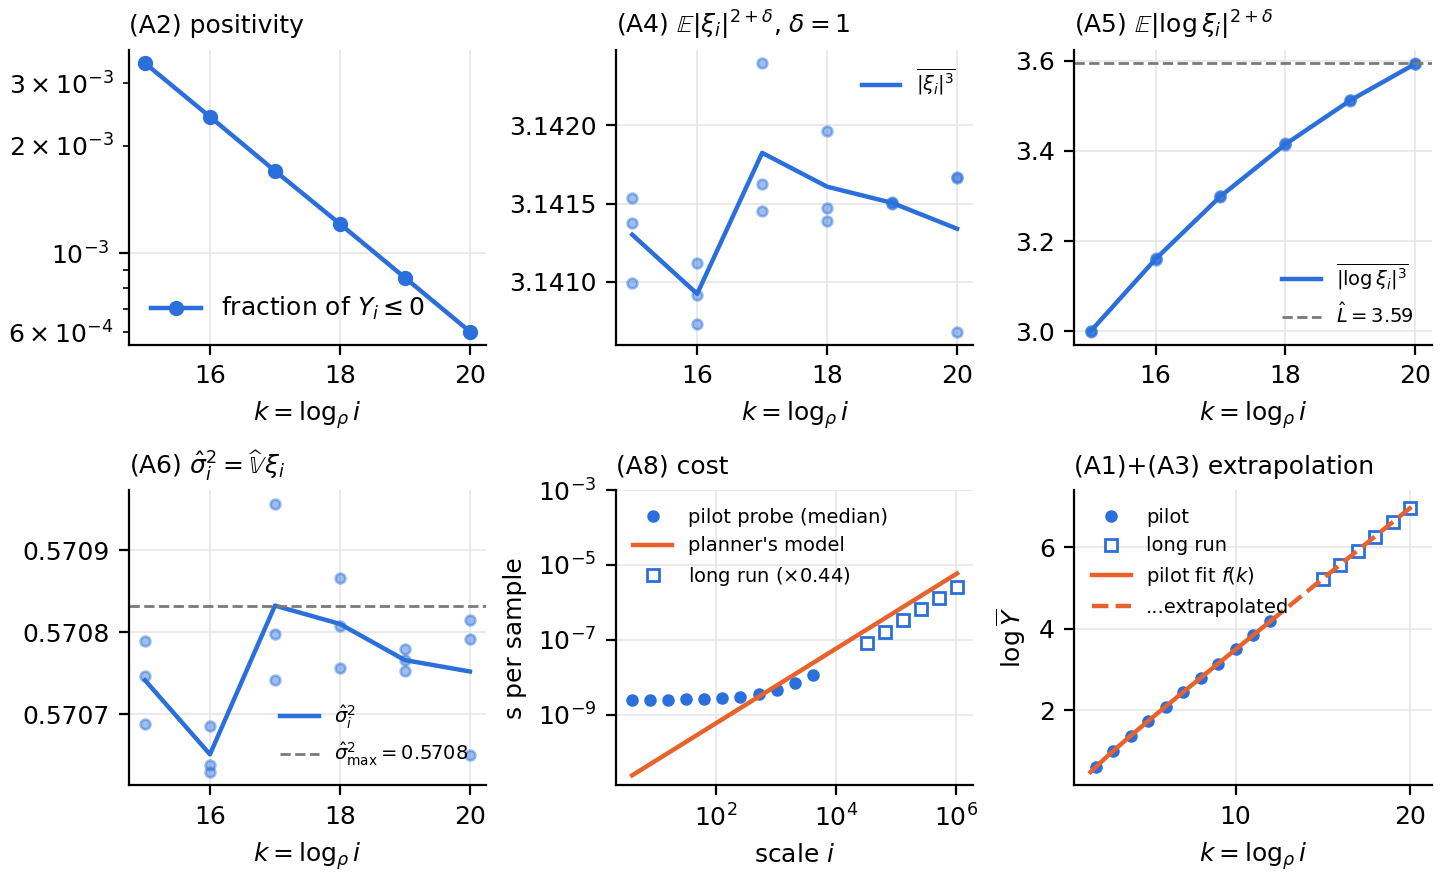
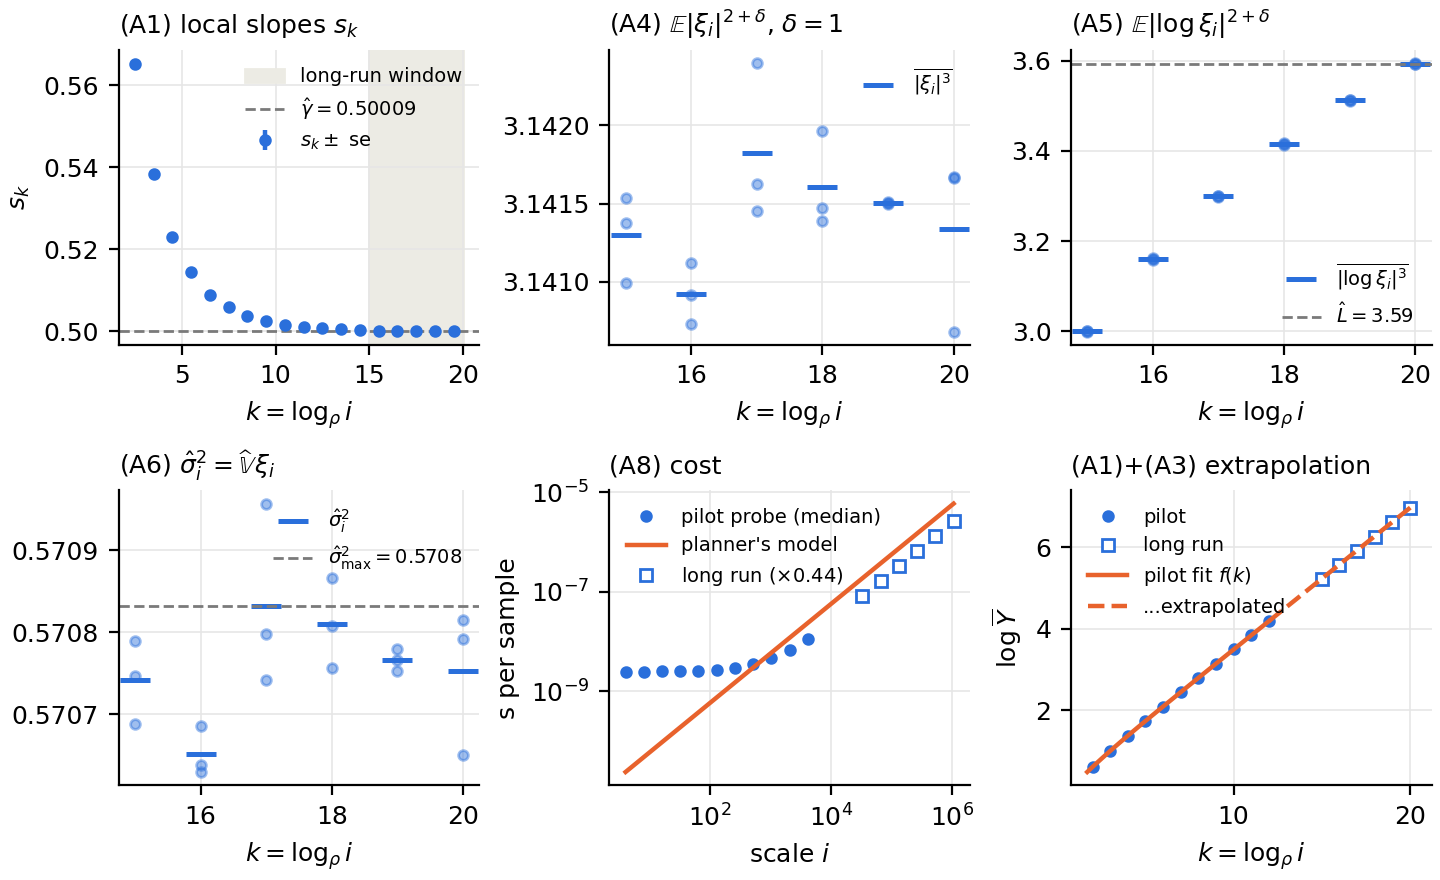
replace experiment 46's (A2) panel with local slopes and stop joining (A4)-(A6)
(A2) needs no plot: a non-positive Ybar makes the log fail. The local
slopes come from local_slope.json. L-hat now uses report.py's definition,
the largest replicate mean over scales, and is asserted equal to it.

diff --git a/experiments/46_pipeline_erwurn_gpu/plot_pipeline.py b/experiments/46_pipeline_erwurn_gpu/plot_pipeline.py
@@ -11,7 +11,10 @@
    `pipeline_extrapolation`: the pilot correction extended over the planned window.
 3. `pipeline_longrun`: the long run's log-log plot with the fitted slope gamma-hat.
 4. `pipeline_checks`: the Step 4 checks on the long-run data, one panel each for
-   (A2), (A4), (A5), (A6), (A8) and (A1)+(A3). (A8) compares the long run's time
+   the local slopes, (A4), (A5), (A6), (A8) and (A1)+(A3). The local slopes come from
+   `src/study/local_slope.py` (local_slope.json), which brings every scale from the
+   pilot's smallest to the window's top to the final's n. (A4)-(A6) are drawn as
+   points, not lines: they are estimates at separate scales. (A8) compares the long run's time
    with the planner's cost model; (A1)+(A3) is the log-log plot of pilot and long
    run together, with the pilot's fit extrapolated across the window.
 
@@ -60,7 +63,7 @@ plt.rcParams.update({"font.size": 9, "axes.grid": True, "grid.color": "#e6e6e6",
 
 def load(sd: Path) -> dict:
     d = {name: json.loads((sd / f"{name}.json").read_text())
-         for name in ("pilot", "plan", "final", "answer")}
+         for name in ("pilot", "plan", "final", "answer", "local_slope")}
     # Only a study planned on a re-fitted cost has one (src/study/refit_cost.py).
     rf = sd / "cost_refit.json"
     d["cost_refit"] = json.loads(rf.read_text()) if rf.exists() else None
@@ -241,31 +244,40 @@ def fig_checks(d: dict, rho: float):
     R, n = len(reps), final["n"]
     fig, axs = plt.subplots(2, 3, figsize=(7.2, 4.4), constrained_layout=True)
 
-    def per_rep(ax, field, label):
-        for r in reps:
-            ax.plot(k, r[field], "o", color=DATA, alpha=0.45, ms=3.5)
-        ax.plot(k, pooled(reps, field), "-", color=DATA, label=label)
+    def per_rep(ax, values, label):
+        """Each replicate a light point, their mean a bar; scales are not joined."""
+        for v in values:
+            ax.plot(k, v, "o", color=DATA, alpha=0.45, ms=3.5)
+        mean = np.mean(values, axis=0)
+        ax.plot(k, mean, "_", color=DATA, ms=11, mew=1.8, label=label)
+        return mean
 
     ax = axs[0, 0]
-    frac = np.sum([r["n_nonpos"] for r in reps], axis=0) / (R * n)
-    ax.semilogy(k, frac, "o-", color=DATA, label=r"fraction of $Y_i \leq 0$")
-    ax.set_title(r"(A2) positivity", fontsize=9, loc="left")
-    ax.legend(loc="lower left")
+    ls = d["local_slope"]["analysis"]
+    # s_k is the slope between rho^k and rho^(k+1), so it sits between them.
+    ks = np.log(ls["scales"][:-1]) / math.log(rho) + 0.5
+    ax.axvspan(k[0], k[-1], color=WINDOW, label="long-run window")
+    ax.errorbar(ks, ls["s"], yerr=ls["se_s"], fmt="o", color=DATA, ms=3.5,
+                label=r"$s_k \pm$ se")
+    ax.axhline(d["answer"]["gamma"], color=REF, ls="--", lw=1,
+               label=rf"$\hat\gamma={d['answer']['gamma']:.5f}$")
+    ax.set_ylabel(r"$s_k$")
+    ax.set_title(r"(A1) local slopes $s_k$", fontsize=9, loc="left")
+    ax.legend(loc="upper right", fontsize=7)
 
-    per_rep(axs[0, 1], "abs_moment", r"$\overline{|\xi_i|^{3}}$")
+    per_rep(axs[0, 1], [r["abs_moment"] for r in reps], r"$\overline{|\xi_i|^{3}}$")
     axs[0, 1].set_title(r"(A4) $\mathbb{E}|\xi_i|^{2+\delta}$, $\delta=1$", fontsize=9, loc="left")
     axs[0, 1].ticklabel_format(axis="y", useOffset=False)
 
-    per_rep(axs[0, 2], "log_moment", r"$\overline{|\log\xi_i|^{3}}$")
-    L = max(np.max(r["log_moment"]) for r in reps)
+    # report.py's Lambda: the largest over scales of the replicate mean.
+    L = per_rep(axs[0, 2], [r["log_moment"] for r in reps],
+                r"$\overline{|\log\xi_i|^{3}}$").max()
+    assert math.isclose(L, d["answer"]["Lambda"], rel_tol=1e-12), (L, d["answer"]["Lambda"])
     axs[0, 2].axhline(L, color=REF, ls="--", lw=1, label=rf"$\hat L={L:.2f}$")
     axs[0, 2].set_title(r"(A5) $\mathbb{E}|\log\xi_i|^{2+\delta}$", fontsize=9, loc="left")
 
     ax = axs[1, 0]
-    for r in reps:
-        ax.plot(k, np.square(r["cv"]), "o", color=DATA, alpha=0.45, ms=3.5)
-    s2 = np.mean([np.square(r["cv"]) for r in reps], axis=0)
-    ax.plot(k, s2, "-", color=DATA, label=r"$\hat\sigma_i^2$")
+    s2 = per_rep(ax, [np.square(r["cv"]) for r in reps], r"$\hat\sigma_i^2$")
     ax.axhline(s2.max(), color=REF, ls="--", lw=1, label=rf"$\hat\sigma^2_{{\max}}={s2.max():.4f}$")
     ax.set_title(r"(A6) $\hat\sigma_i^2=\widehat{\mathbb{V}}\,\xi_i$", fontsize=9, loc="left")
 
@@ -309,8 +321,9 @@ def fig_checks(d: dict, rho: float):
 
     for ax in (axs[0, 0], axs[0, 1], axs[0, 2], axs[1, 0], axs[1, 2]):
         ax.set_xlabel(r"$k=\log_\rho i$")
-    for ax in (axs[0, 1], axs[0, 2], axs[1, 0]):
-        ax.legend(loc="best", fontsize=7)
+    for ax, loc in ((axs[0, 1], "upper right"), (axs[0, 2], "lower right"),
+                    (axs[1, 0], "upper right")):
+        ax.legend(loc=loc, fontsize=7)
     return fig
 
 
